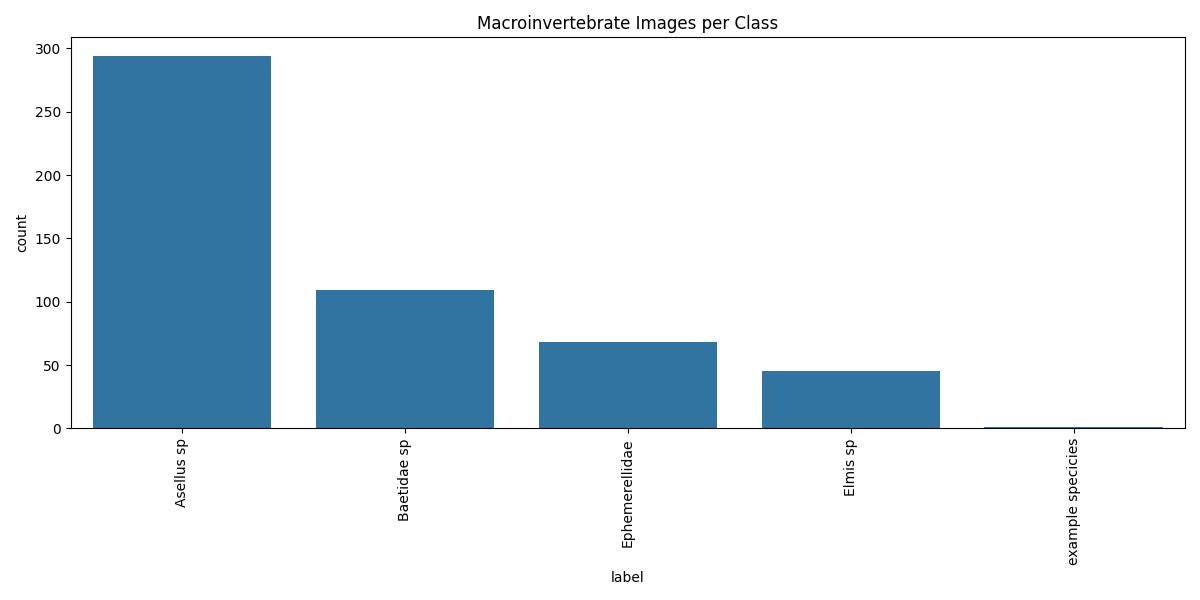
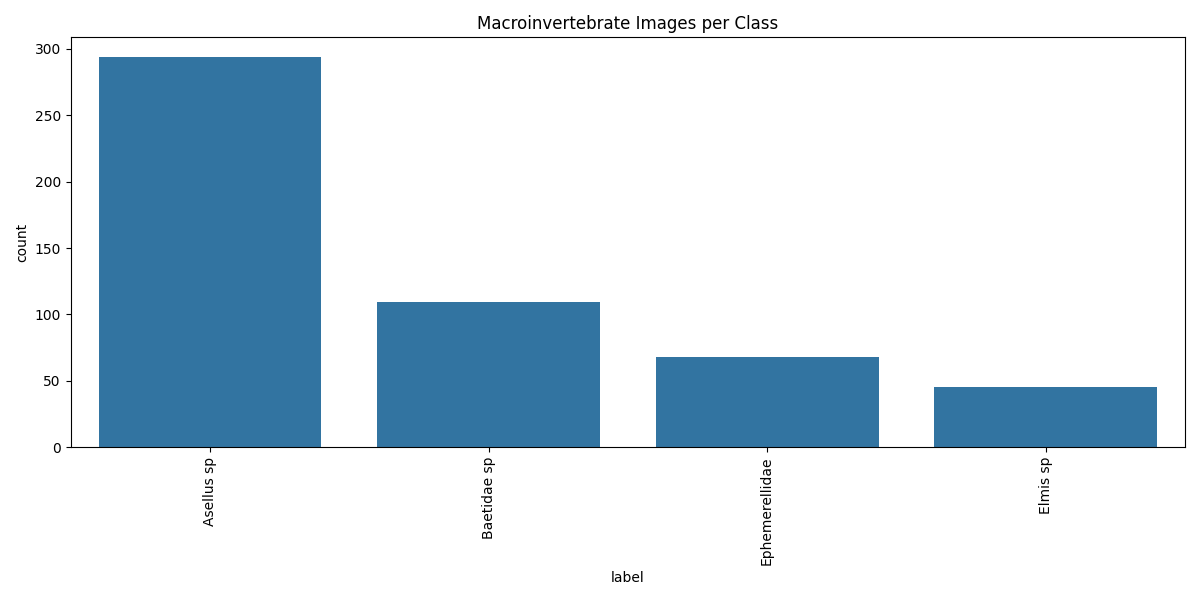
fix: removed global variable "do_nothing()"

diff --git a/macro_project/src/services/dataset_indexer.py b/macro_project/src/services/dataset_indexer.py
@@ -4,21 +4,19 @@ import pandas as pd
 
 from config import RAW_DATA_DIR, SUPPORTED_EXTENSIONS
 
-def do_nothing(*args, **kwargs):
-    pass
-
 class DatasetIndexer:
     """Scan the dataset folder and build a tabular image index."""
     def __init__(self, data_dir: Path = RAW_DATA_DIR) -> None:
         self.data_dir = data_dir
         self.counter :int = 0
         self.output: pd.DataFrame | None = None
-    def build_dataframe(self, func = do_nothing, final = do_nothing) -> pd.DataFrame:
+    def build_dataframe(self, func = None, final = do_nothing) -> pd.DataFrame:
         """Return one row per image with file path, label, and dimensions."""
         records = []
 
         for file_path in self.data_dir.rglob("*"):
-            func()
+            if func:
+                func()
             if file_path.suffix.lower() not in SUPPORTED_EXTENSIONS:
                 continue
             

diff --git a/macro_project/src/gui_components.py b/macro_project/src/gui_components.py
@@ -95,17 +95,23 @@ def upload_file():
     return file_path
 
 class FileChoiceButton(Button):
-    def __init__(self, root, *args, **kwargs):
+    def __init__(self, root, additional_command = None, *args, **kwargs):
         super().__init__(root, *args, **kwargs)
         self.config(text="upload file")
         self.config(command=self.onlick)
         self.selected_file = None
+        self.additional_command = additional_command
     def onlick(self):
         self.selected_file = upload_file()
+        if self.additional_command:
+            self.additional_command()
     
     def grid(self, **kwargs) -> Self:
         super().grid(**kwargs)
         return self
+    
+    def get_file_fir(self):
+        return self.selected_file
 
 
 class FolderSelect(OptionMenu):
